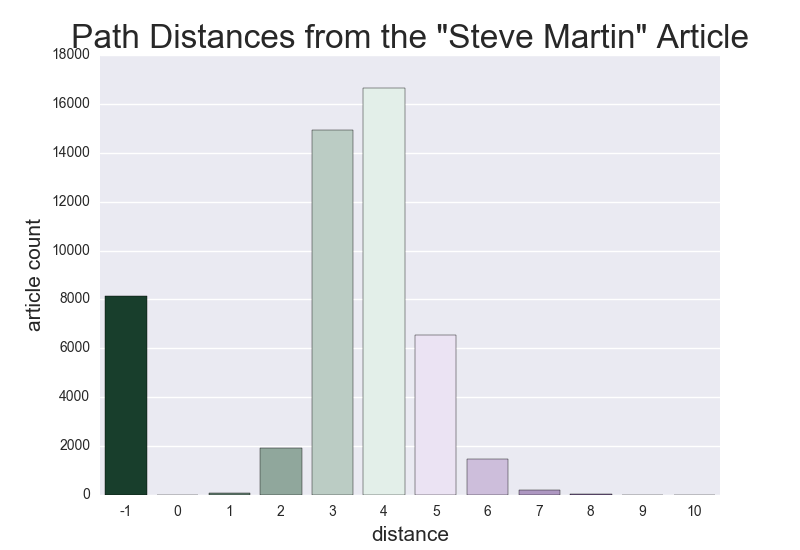
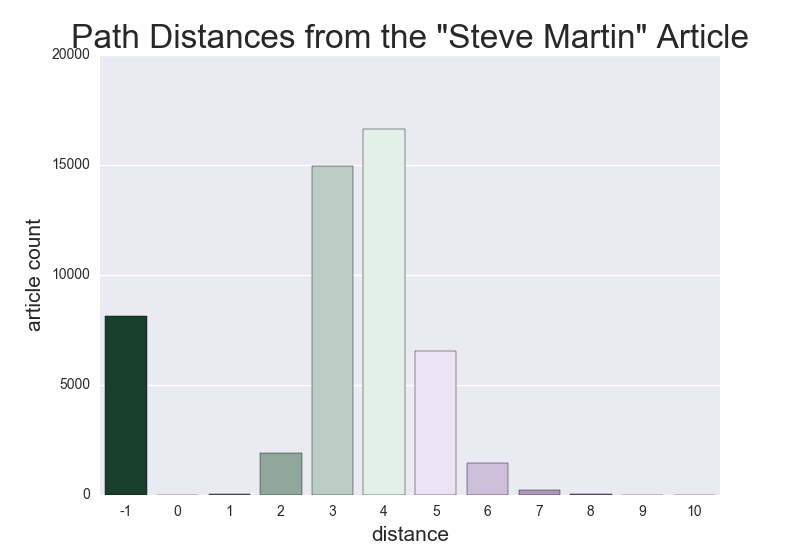
updating path distances histograms

diff --git a/distances_histogram.py b/distances_histogram.py
@@ -33,7 +33,7 @@ def find_all_nodes(graph, start='Graph theory'): #graph is a tuple of (node, (tu
             path_dict_out[title] = ([],-1)
     return path_dict_out, dist
 
-target = 'Leg theory'
+target = 'World War II'
 path_dict_out, max_dist = find_all_nodes(graph,start=target)
 
 #identify nodes that the target failed to connect with by labelling these nodes with an empty list and a degree of separation of -1
@@ -55,4 +55,5 @@ sns.barplot(x,y,palette=current_palette)
 plt.title('Path Distances from the "{}" Article'.format(target),fontsize=24)
 plt.xlabel('distance',fontsize=15)
 plt.ylabel('article count',fontsize=15)
+plt.ylim(0,20000)
 #plt.show()
